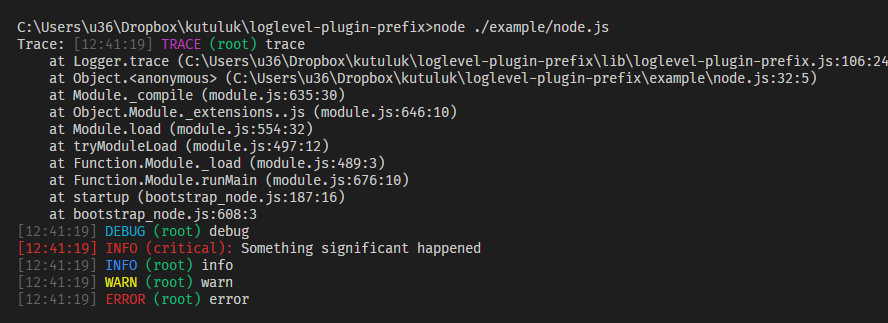
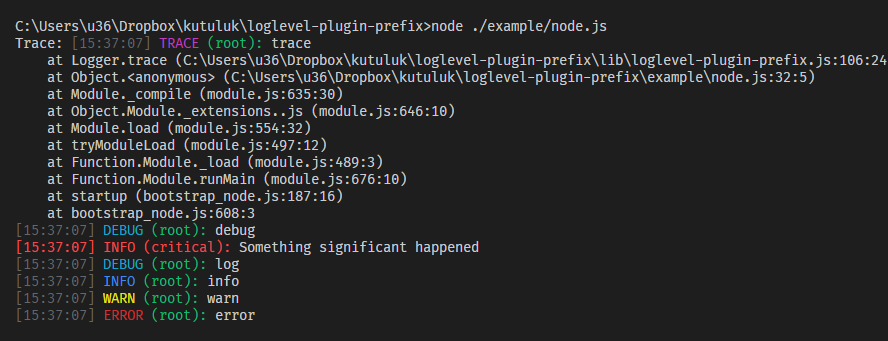
doc update

Changed region(s): [[0.0, 0.0619, 1.0, 0.9598]]

diff --git a/dist/loglevel-plugin-prefix.min.js b/dist/loglevel-plugin-prefix.min.js
@@ -1,1 +1,1 @@
-!function(e,t){"function"==typeof define&&define.amd?define(t):"object"==typeof module&&module.exports?module.exports=t():e.prefix=t(e)}(this,function(e){"use strict";var t,r,o={template:"[%t] %l:",timestampFormatter:function(e){return e.toTimeString().replace(/.*(\d{2}:\d{2}:\d{2}).*/,"$1")},levelFormatter:function(e){return e.toUpperCase()},nameFormatter:function(e){return e||"root"},format:void 0},n={},a={reg:function(e){if(!e||!e.getLogger)throw new TypeError("Argument is not a root logger");t=e},apply:function(e,r){if(!e||!e.setLevel)throw new TypeError("Argument is not a logger");var a=e.methodFactory,l=e.name||"",i=n[l]||n[""]||o;return n[l]||(e.methodFactory=function(e,t,r){var o=a(e,t,r),i=n[r]||n[""],f=-1!==i.template.indexOf("%t"),p=-1!==i.template.indexOf("%l"),m=-1!==i.template.indexOf("%n");return function(){for(var t="",a=arguments.length,u=Array(a),c=0;c<a;c++)u[c]=arguments[c];if(l||!n[r]){var g=i.timestampFormatter(new Date),s=i.levelFormatter(e),d=i.nameFormatter(r);i.format?t+=i.format(s,d,g):(t+=i.template,f&&(t=t.replace(/%t/,g)),p&&(t=t.replace(/%l/,s)),m&&(t=t.replace(/%n/,d))),u.length&&"string"==typeof u[0]?u[0]=t+" "+u[0]:u.unshift(t)}o.apply(void 0,u)}}),(r=r||{}).template&&(r.format=void 0),n[l]=function(e){for(var t,r=1,o=arguments.length;r<o;r++)for(t in arguments[r])Object.prototype.hasOwnProperty.call(arguments[r],t)&&(e[t]=arguments[r][t]);return e}({},i,r),e.setLevel(e.getLevel()),t||e.warn("It is necessary to call the function reg() of loglevel-plugin-prefix before calling apply. From the next release, it will throw an error. See more: https://github.com/kutuluk/loglevel-plugin-prefix/blob/master/README.md"),e}};return e&&(r=e.prefix,a.noConflict=function(){return e.prefix===a&&(e.prefix=r),a}),a});
+!function(e,t){"function"==typeof define&&define.amd?define(t):"object"==typeof module&&module.exports?module.exports=t():e.prefix=t(e)}(this,function(e){"use strict";var t,r,o={template:"[%t] %l:",levelFormatter:function(e){return e.toUpperCase()},nameFormatter:function(e){return e||"root"},timestampFormatter:function(e){return e.toTimeString().replace(/.*(\d{2}:\d{2}:\d{2}).*/,"$1")},format:void 0},n={},a={reg:function(e){if(!e||!e.getLogger)throw new TypeError("Argument is not a root logger");t=e},apply:function(e,r){if(!e||!e.setLevel)throw new TypeError("Argument is not a logger");var a=e.methodFactory,l=e.name||"",i=n[l]||n[""]||o;return n[l]||(e.methodFactory=function(e,t,r){var o=a(e,t,r),i=n[r]||n[""],f=-1!==i.template.indexOf("%t"),p=-1!==i.template.indexOf("%l"),m=-1!==i.template.indexOf("%n");return function(){for(var t="",a=arguments.length,u=Array(a),c=0;c<a;c++)u[c]=arguments[c];if(l||!n[r]){var g=i.timestampFormatter(new Date),s=i.levelFormatter(e),d=i.nameFormatter(r);i.format?t+=i.format(s,d,g):(t+=i.template,f&&(t=t.replace(/%t/,g)),p&&(t=t.replace(/%l/,s)),m&&(t=t.replace(/%n/,d))),u.length&&"string"==typeof u[0]?u[0]=t+" "+u[0]:u.unshift(t)}o.apply(void 0,u)}}),(r=r||{}).template&&(r.format=void 0),n[l]=function(e){for(var t,r=1,o=arguments.length;r<o;r++)for(t in arguments[r])Object.prototype.hasOwnProperty.call(arguments[r],t)&&(e[t]=arguments[r][t]);return e}({},i,r),e.setLevel(e.getLevel()),t||e.warn("It is necessary to call the function reg() of loglevel-plugin-prefix before calling apply. From the next release, it will throw an error. See more: https://github.com/kutuluk/loglevel-plugin-prefix/blob/master/README.md"),e}};return e&&(r=e.prefix,a.noConflict=function(){return e.prefix===a&&(e.prefix=r),a}),a});

diff --git a/lib/loglevel-plugin-prefix.js b/lib/loglevel-plugin-prefix.js
@@ -25,14 +25,14 @@
 
   var defaults = {
     template: '[%t] %l:',
-    timestampFormatter: function (date) {
-      return date.toTimeString().replace(/.*(\d{2}:\d{2}:\d{2}).*/, '$1');
-    },
     levelFormatter: function (level) {
       return level.toUpperCase();
     },
     nameFormatter: function (name) {
       return name || 'root';
+    },
+    timestampFormatter: function (date) {
+      return date.toTimeString().replace(/.*(\d{2}:\d{2}:\d{2}).*/, '$1');
     },
     format: undefined
   };
@@ -85,7 +85,6 @@
           /* eslint-enable vars-on-top */
 
           if (options.format) {
-            // content += options.format(methodName, loggerName);
             content += options.format(level, lname, timestamp);
           } else {
             content += options.template;
@@ -111,10 +110,6 @@
     if (!configs[name]) {
       logger.methodFactory = methodFactory;
     }
-
-    // for remove inherited format option if own format option not preset
-    // config = config || {};
-    // config.format = config.format;
 
     // for remove inherited format option if template option preset
     config = config || {};

diff --git a/test/test.js b/test/test.js
@@ -11,14 +11,23 @@ loglevel.enableAll();
 describe('API', () => {
   it('Methods', () => {
     expect(prefix).to.have.property('apply').with.be.a('function');
+    expect(prefix).to.have.property('reg').with.be.a('function');
     expect(prefix).not.to.have.property('noConflict');
   });
 
-  it('Empty arguments', () => {
+  it('Reg: empty arguments', () => {
+    expect(prefix.reg).to.throw(TypeError, 'Argument is not a root logger');
+  });
+
+  it('Reg: incorrect argument', () => {
+    expect(() => prefix.reg('logger')).to.throw(TypeError, 'Argument is not a root logger');
+  });
+
+  it('Apply: empty arguments', () => {
     expect(prefix.apply).to.throw(TypeError, 'Argument is not a logger');
   });
 
-  it('Incorrect argument', () => {
+  it('Apply: incorrect argument', () => {
     expect(() => prefix.apply('logger')).to.throw(TypeError, 'Argument is not a logger');
   });
 });

diff --git a/examples/options.js b/examples/options.js
@@ -1,0 +1,31 @@
+// eslint-disable-next-line import/no-extraneous-dependencies
+const log = require('loglevel');
+const prefix = require('../lib/loglevel-plugin-prefix');
+
+prefix.reg(log);
+log.enableAll();
+
+prefix.apply(log, {
+  template: '[%t] %l (%n) static text:',
+  timestampFormatter(date) {
+    return date.toISOString();
+  },
+  levelFormatter(level) {
+    return level.toUpperCase();
+  },
+  nameFormatter(name) {
+    return name || 'global';
+  },
+});
+
+log.info('%s prefix', 'template');
+
+const fn = (level, name, timestamp) => `[${timestamp}] ${level} (${name}) static text:`;
+
+prefix.apply(log, { format: fn });
+
+log.info('%s prefix', 'functional');
+
+prefix.apply(log, { template: '[%t] %l (%n) static text:' });
+
+log.info('again %s prefix', 'template');

diff --git a/examples/node.js b/examples/node.js
@@ -17,7 +17,7 @@ log.enableAll();
 
 prefix.apply(log, {
   format(level, name, timestamp) {
-    return `${chalk.gray(`[${timestamp}]`)} ${colors[level.toUpperCase()](level)} ${chalk.green(`(${name})`)}`;
+    return `${chalk.gray(`[${timestamp}]`)} ${colors[level.toUpperCase()](level)} ${chalk.green(`(${name}):`)}`;
   },
 });
 
@@ -25,13 +25,14 @@ const critical = log.getLogger('critical');
 
 prefix.apply(critical, {
   format(level, name, timestamp) {
-    return chalk.red(`[${timestamp}] ${level} (${name}):`);
+    return chalk.red.bold(`[${timestamp}] ${level} (${name}):`);
   },
 });
 
 log.trace('trace');
 log.debug('debug');
 critical.info('Something significant happened');
+log.log('log');
 log.info('info');
 log.warn('warn');
 log.error('error');

diff --git a/examples/inheritance.js b/examples/inheritance.js
@@ -19,7 +19,7 @@ log.info('root');
 const egg = log.getLogger('egg');
 egg.info('egg');
 
-const fn = (level, logger) => `${level} (${logger}):`;
+const fn = (level, name) => `${level} (${name}):`;
 
 prefix.apply(egg, { format: fn });
 egg.info('egg');

diff --git a/README.md b/README.md
@@ -7,7 +7,7 @@ Plugin for [loglevel](https://github.com/pimterry/loglevel) message prefixing.
 ## Installation
 
 ```sh
-npm i loglevel-plugin-prefix --save
+npm install loglevel-plugin-prefix
 ```
 
 ## API
@@ -16,11 +16,11 @@ npm i loglevel-plugin-prefix --save
 
 #### `reg(loglevel)`
 
-This method must be called before any calling the apply method.
+This method registers plugin for loglevel. This method must be called at least once before any call to the apply method. Repeated calls to this method are ignored.
 
 #### Parameters
 
-`loglevel` - the root logger, imported from loglevel package
+`loglevel` - the root logger, imported from loglevel module
 
 #### `apply(logger, options)`
 
@@ -28,36 +28,37 @@ This method applies the plugin to the logger. Before using this method, the `reg
 
 #### Parameters
 
-`logger` - a loglevel logger
+`logger` - any logger of loglevel
 
 `options` - an optional configuration object
 
 ```javascript
 var defaults = {
   template: '[%t] %l:',
-  timestampFormatter: function (date) {
-    return date.toTimeString().replace(/.*(\d{2}:\d{2}:\d{2}).*/, '$1');
-  },
   levelFormatter: function (level) {
     return level.toUpperCase();
   },
   nameFormatter: function (name) {
     return name || 'root';
   },
+  timestampFormatter: function (date) {
+    return date.toTimeString().replace(/.*(\d{2}:\d{2}:\d{2}).*/, '$1');
+  },
   format: undefined
 };
 ```
 
-Plugin formats the prefix using **template** option as a printf-like format. The **template** is a string containing zero or more placeholder tokens. Each placeholder token is replaced with the value from loglevel messages parameters. Supported placeholders are:
+Plugin formats the prefix using `template` option as a printf-like format. The `template` is a string containing zero or more placeholder tokens. Each placeholder token is replaced with the value from loglevel messages parameters. Supported placeholders are:
 
-- `%t` - timestamp of message
 - `%l` - level of message
 - `%n` - name of logger
+- `%t` - timestamp of message
 
-The **timestampFormatter**, **levelFormatter** and **nameFormatter** is a functions for formatting corresponding values.
+The `levelFormatter`, `nameFormatter` and `timestampFormatter` is a functions for formatting corresponding values.
 
-Alternatively, you can use **format** option. This is a function that receives formatted values (level, logger, timestamp) and should returns a prefix string. If the format option is present, the template option are ignored.
+Alternatively, you can use `format` option. This is a function that receives formatted values (level, name, timestamp) and should returns a prefix string.
 
+If both `format` and` template` are present in the configuration, the `template` parameter is ignored. When both these parameters are missing in the configuration, the inherited behavior is used.
 
 ## Usage
 
@@ -99,7 +100,7 @@ log.enableAll();
 
 prefix.apply(log, {
   format(level, name, timestamp) {
-    return `${chalk.gray(`[${timestamp}]`)} ${colors[level.toUpperCase()](level)} ${chalk.green(`(${name})`)}`;
+    return `${chalk.gray(`[${timestamp}]`)} ${colors[level.toUpperCase()](level)} ${chalk.green(`(${name}):`)}`;
   },
 });
 
@@ -107,13 +108,14 @@ const critical = log.getLogger('critical');
 
 prefix.apply(critical, {
   format(level, name, timestamp) {
-    return chalk.red(`[${timestamp}] ${level} (${name}):`);
+    return chalk.red.bold(`[${timestamp}] ${level} (${name}):`);
   },
 });
 
 log.trace('trace');
 log.debug('debug');
 critical.info('Something significant happened');
+log.log('log');
 log.info('info');
 log.warn('warn');
 log.error('error');
@@ -125,23 +127,28 @@ Output
 ## Custom options
 
 ```javascript
-import log from 'loglevel';
-import prefix from 'loglevel-plugin-prefix';
+const log = require('loglevel');
+const prefix = require('../lib/loglevel-plugin-prefix');
 
+prefix.reg(log);
 log.enableAll();
 
 prefix.apply(log, {
   template: '[%t] %l (%n) static text:',
-  timestampFormatter(date) { return date.toISOString() },
-  levelFormatter(level) { return level.toUpperCase() },
-  nameFormatter(name) { return name || 'global' }
+  levelFormatter(level) {
+    return level.toUpperCase();
+  },
+  nameFormatter(name) {
+    return name || 'global';
+  },
+  timestampFormatter(date) {
+    return date.toISOString();
+  },
 });
 
 log.info('%s prefix', 'template');
 
-const fn = (level, logger, timestamp) => {
-  return `[${timestamp}] ${label} (${name}) static text:`;
-};
+const fn = (level, name, timestamp) => `[${timestamp}] ${level} (${name}) static text:`;
 
 prefix.apply(log, { format: fn });
 
@@ -182,7 +189,7 @@ log.info('root');
 const egg = log.getLogger('egg');
 egg.info('egg');
 
-const fn = (level, logger) => `${level} (${logger}):`;
+const fn = (level, name) => `${level} (${name}):`;
 
 prefix.apply(egg, { format: fn });
 egg.info('egg');
@@ -203,10 +210,10 @@ Output
 root
 chicken
 INFO (chicken): chicken
-[13:20:24] INFO: root
-[13:20:24] INFO: egg
+[16:53:46] INFO: root
+[16:53:46] INFO: egg
 INFO (egg): egg
 info (egg): egg
 INFO (chicken): chicken
-[13:20:24] INFO: root
+[16:53:46] INFO: root
 ```
